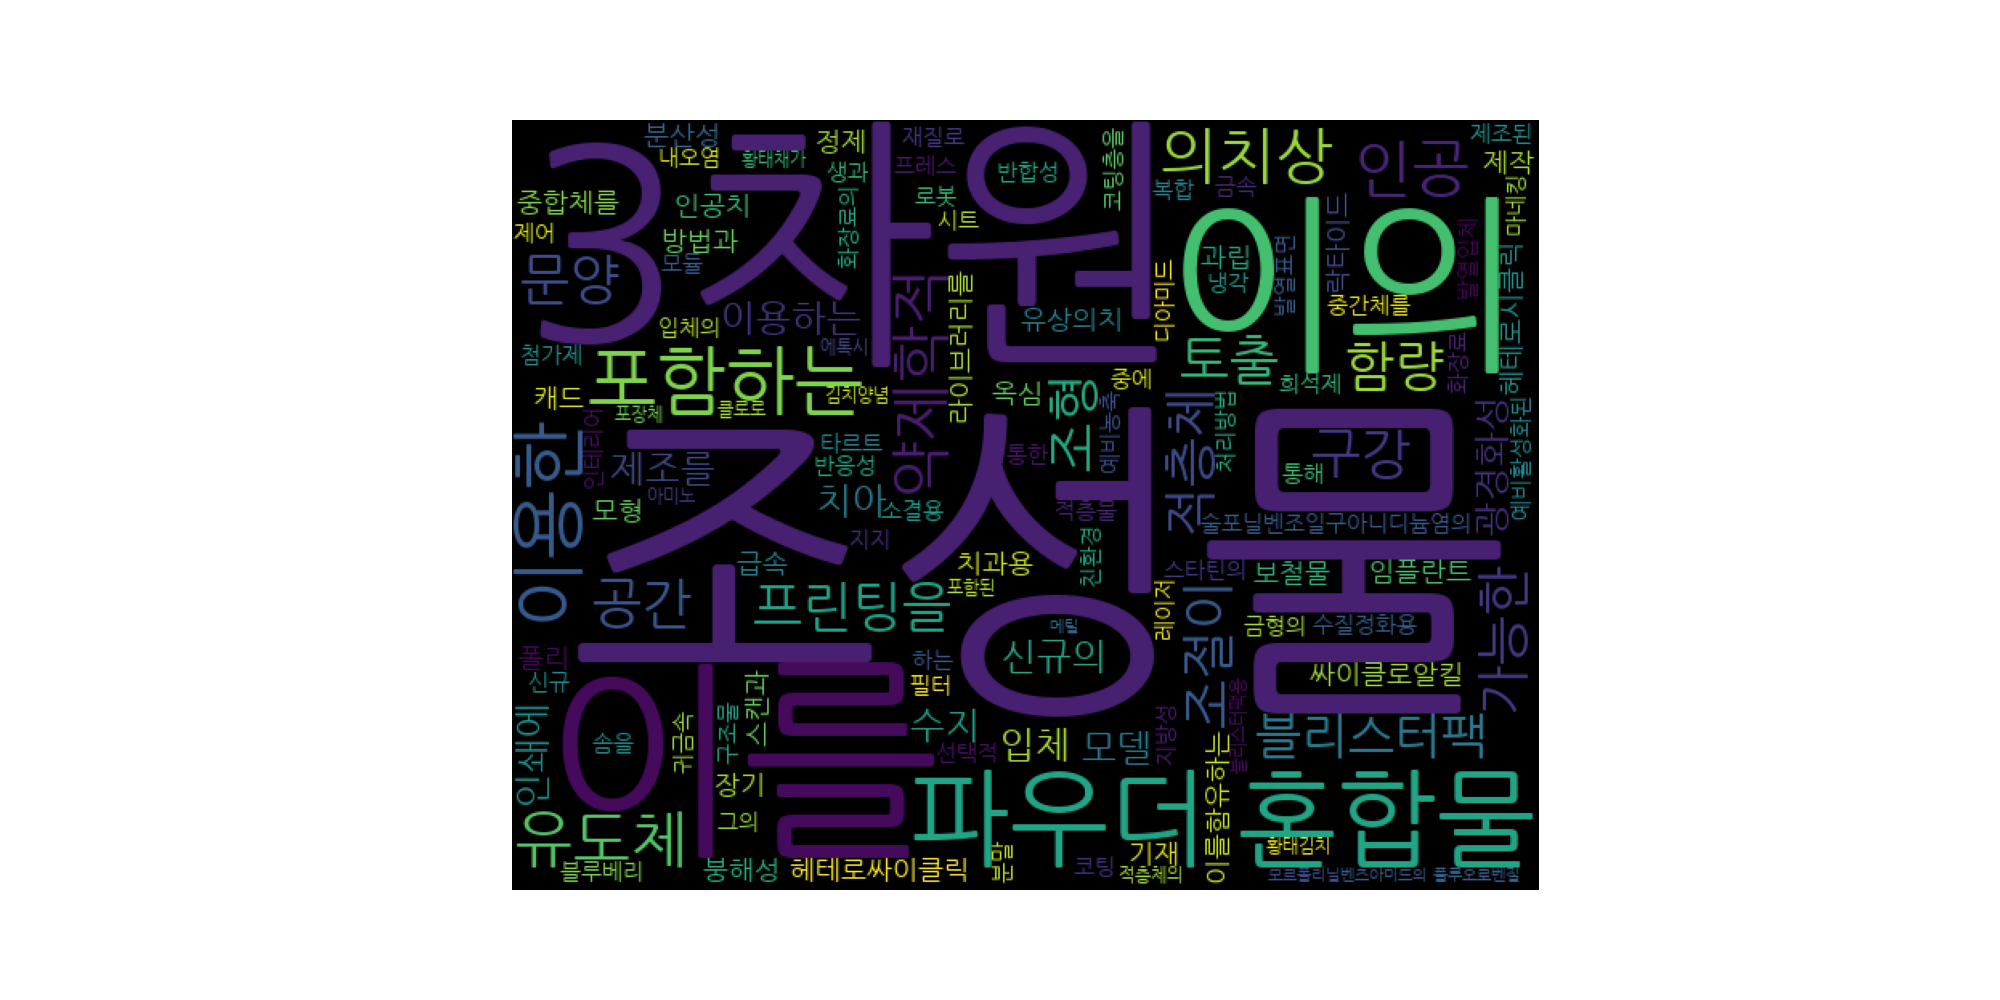
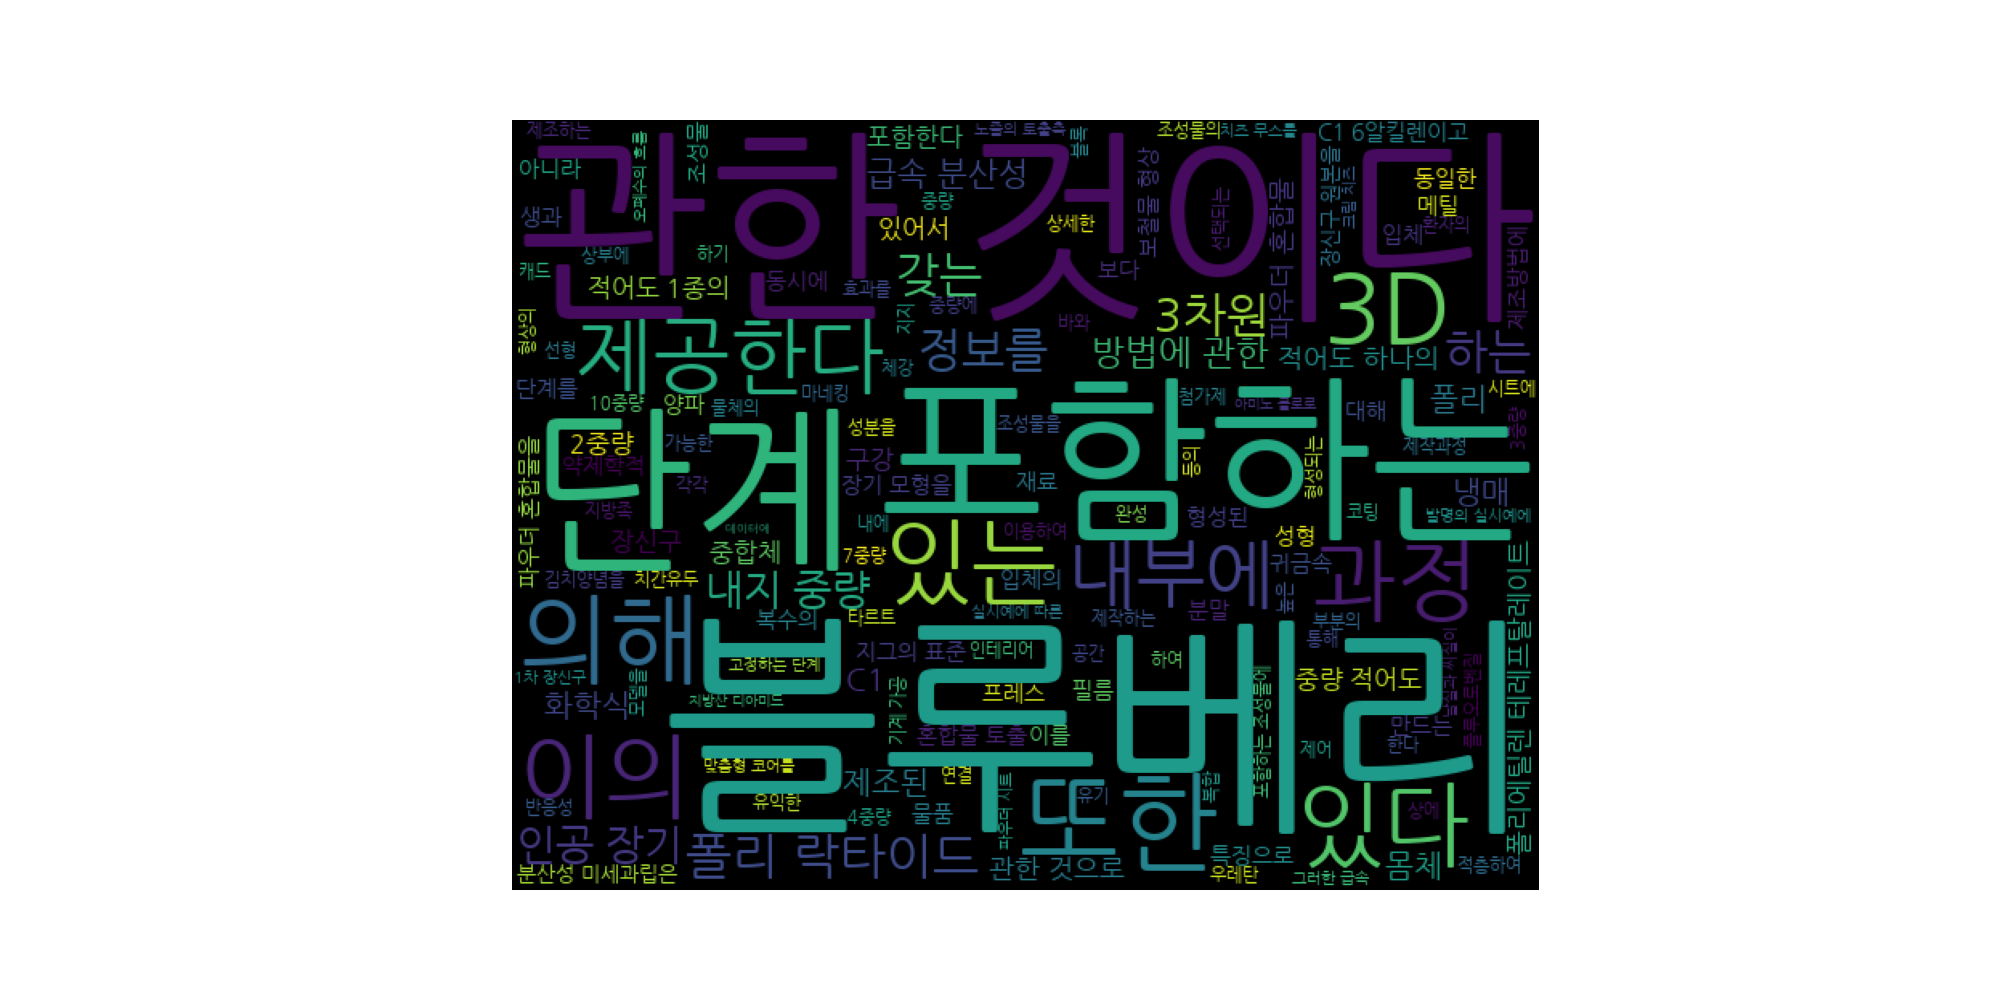
first commit

Changed region(s): [[0.248, 0.124, 0.775, 0.899]]

diff --git a/WordCloudAnimation.py b/WordCloudAnimation.py
@@ -28,13 +28,21 @@ import imageio
 # base_path
 # input_file = base_path + 'test_data.txt'
 input_file = 'test_data.txt'
+
+# 전체 컬럼 : 특허번호	출원번호	출원접수국가	출원일	국제특허분류(IPC)	발명의명칭	출원인/특허권자	요약	대표청구항	과제	해결방안
+# 정렬 컬럼 : 출원일
+# 필터 컬럼 :
+# 입력 문자열 :  발명의명칭, 출원인/특허권자, 요약, 대표청구항, 과제, 해결방안
+
 font_path = 'NanumGothic.ttf'
 train = pd.read_csv(input_file, delimiter='\t')
+train.sort_values(['출원일'], ascending=[True])
 print(f'total data length: {len(train)}')
 print(train.head())
 
-sentences = list(train['발명의명칭'])
-# print(sentences[1])
+# sentences = list(train['발명의명칭'])
+sentences = list(train['요약'])
+print(sentences[1])
 
 # okt = Okt()
 # tokenized_by_space = [s.split() for s in sentences]
@@ -47,16 +55,17 @@ stopwords.add('위한')
 stopwords.add('제조')
 stopwords.add('제조방법')
 stopwords.add('장치')
-# stopwords.add('방법')
-# stopwords.add('방법')
-# stopwords.add('방법')
+stopwords.add('상기')
+stopwords.add('발명은')
+stopwords.add('또는')
 # stopwords.add('방법')
 
 img_path = 'img/'
 img_list = []
 img_fn_list = []
 
-for i in range(6):
+# len_img = len(sentences)-1
+for i in range(50):
     input = ' '.join(sentences[1+i:30+i])
     wc = WordCloud(font_path=font_path, stopwords=stopwords,
                    max_words=150, random_state=42,
@@ -84,4 +93,7 @@ for i in range(6):
 # create_animation(images, 'gif/animation3.gif')
 
 images = [np.array(imageio.imread(img)) for img in img_fn_list]
-imageio.mimsave('gif/animation3.gif', images, fps=2)
+imageio.mimsave('gif/animation_abst.gif', images, fps=2)
+#
+# images = [np.array(img) for img in img_list]
+# imageio.mimsave('gif/animation_abst.gif', images, fps=2)
